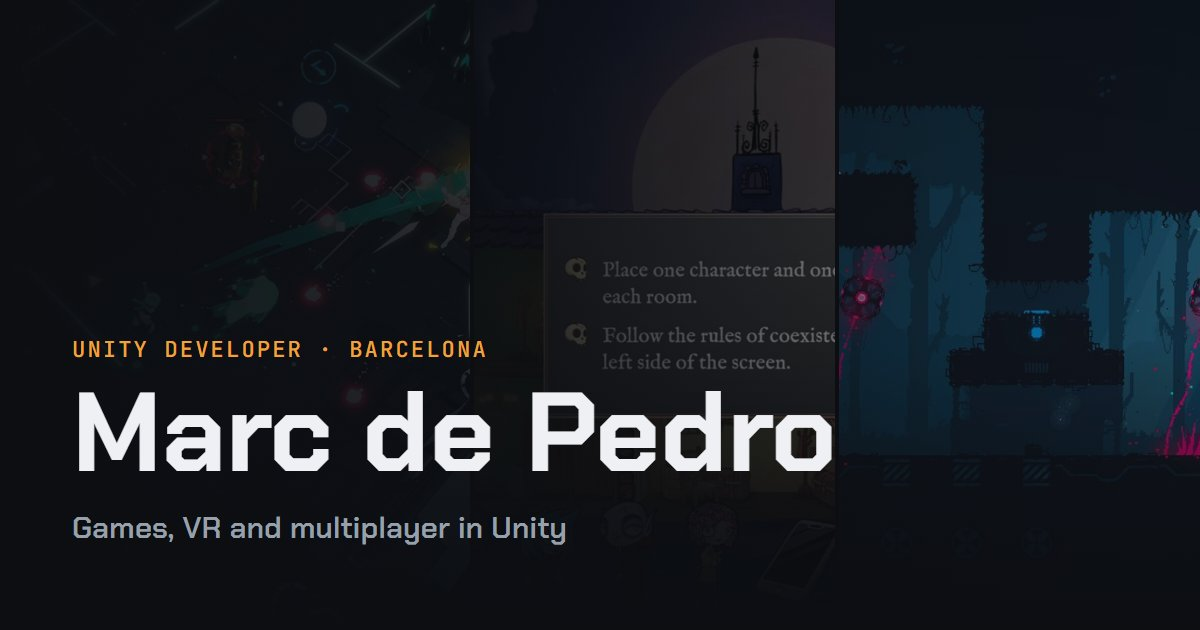
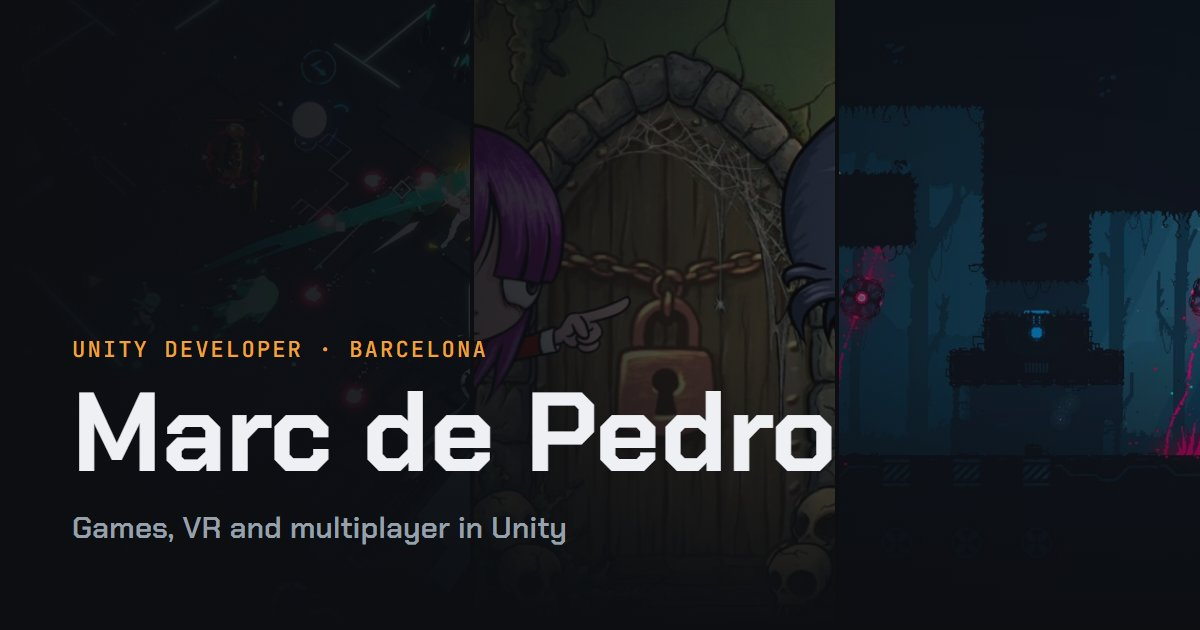
Side arrows for the games carousel, new Singular Ones shot in hero and preview

diff --git a/index.html b/index.html
@@ -54,6 +54,7 @@ section, footer { scroll-margin-top: 64px; }
 .hero { position: relative; overflow: hidden; border-bottom: 1px solid var(--line); }
 .mosaic { position: absolute; inset: 0; display: grid; grid-template-columns: 1.3fr 1fr 1fr; gap: 4px; }
 .mosaic img { width: 100%; height: 100%; object-fit: cover; }
+.mosaic img.no-dialog { height: 120%; object-position: 50% 0; } /* push the game's dialogue box below the hero edge */
 .hero::after { content: ""; position: absolute; inset: 0; background: linear-gradient(90deg, var(--bg) 0%, color-mix(in srgb, var(--bg) 82%, transparent) 45%, color-mix(in srgb, var(--bg) 35%, transparent) 100%), linear-gradient(0deg, var(--bg) 0%, transparent 40%); }
 .hero .wrap { position: relative; z-index: 1; }
 .hero-in { padding-block: 96px 72px; display: grid; gap: 22px; max-width: 640px; }
@@ -76,11 +77,21 @@ h1 { margin: 0; font: 700 clamp(3rem, 9vw, 5.6rem)/.9 var(--display); letter-spa
 .game-tabs button { padding: 8px 12px; border-radius: 5px; border: 1px solid var(--line); background: none; color: var(--muted); font: 500 .85rem/1 var(--body); cursor: pointer; }
 .game-tabs button:hover { color: var(--ink); }
 .game-tabs button[aria-current="true"] { color: var(--on-accent); background: var(--accent); border-color: var(--accent); }
-.arrows { display: flex; align-items: center; gap: 8px; }
-.count { font: 500 .8rem/1 var(--mono); color: var(--muted); font-variant-numeric: tabular-nums; margin-right: 6px; }
-.arrow { width: 40px; height: 40px; display: grid; place-items: center; border-radius: 6px; border: 1px solid var(--line); background: var(--surface); color: var(--ink); font-size: 1.1rem; cursor: pointer; }
+.arrows { display: flex; align-items: center; min-height: 40px; padding-right: 100px; }
+.count { font: 500 .8rem/1 var(--mono); color: var(--muted); font-variant-numeric: tabular-nums; }
+/* arrows: beside the game's screenshot when there is room in the side gutters, otherwise next to the counter */
+.carousel-wrap { position: relative; }
+.arrow { position: absolute; z-index: 2; top: -68px; right: 0; width: 40px; height: 40px; display: grid; place-items: center; border-radius: 6px; border: 1px solid var(--line); background: var(--surface); color: var(--ink); font-size: 1.1rem; cursor: pointer; }
 .arrow:hover:not(:disabled) { border-color: var(--accent); }
 .arrow:disabled { opacity: .35; cursor: default; }
+.arrow.prev { right: 52px; }
+@media (min-width: 1320px) {
+  .arrows { padding-right: 0; }
+  /* margin-top % is relative to width: centre of the 16:9 screenshot in the 1.55fr column */
+  .arrow { top: 0; margin-top: calc((100% - 40px) * .17096 - 24px); width: 48px; height: 48px; border-radius: 50%; font-size: 1.25rem; }
+  .arrow.prev { right: auto; left: -76px; }
+  .arrow.next { right: -76px; }
+}
 .carousel { position: relative; display: flex; gap: 40px; overflow-x: auto; scroll-snap-type: x mandatory; overscroll-behavior-x: contain; scrollbar-width: none; }
 .carousel::-webkit-scrollbar { display: none; }
 .slide { flex: 0 0 100%; scroll-snap-align: start; }
@@ -202,7 +213,7 @@ footer p { margin: 0; color: var(--muted); }
   <div class="mosaic" aria-hidden="true">
     <img src="media/img/deflector-1.jpg" alt="">
     <img src="media/img/reseed-1.jpg" alt="">
-    <img src="media/img/singular-1.jpg" alt="">
+    <img class="no-dialog" src="media/img/singular-4.jpg" alt="">
   </div>
   <div class="wrap">
     <div class="hero-in">
@@ -232,11 +243,12 @@ footer p { margin: 0; color: var(--muted); }
         </div>
         <div class="arrows">
           <span class="count" aria-live="polite">01 / 03</span>
-          <button type="button" class="arrow prev" aria-label="Previous game">&larr;</button>
-          <button type="button" class="arrow next" aria-label="Next game">&rarr;</button>
         </div>
       </div>
 
+      <div class="carousel-wrap">
+        <button type="button" class="arrow prev" aria-label="Previous game">&larr;</button>
+        <button type="button" class="arrow next" aria-label="Next game">&rarr;</button>
       <div class="carousel">
         <article class="slide feature" id="deflector" aria-roledescription="slide" aria-label="1 of 3: Deflector">
           <div class="shots" data-trailer="https://video.akamai.steamstatic.com/store_trailers/1736550/551523/a86c25e3b011ff77da19d4791953a373c15e7436/1751025667/hls_264_master.m3u8?t=1679669634">
@@ -330,6 +342,7 @@ footer p { margin: 0; color: var(--muted); }
             <div class="links"><a class="btn" href="https://store.steampowered.com/app/3954440/RESEED/">Steam page ↗</a></div>
           </div>
         </article>
+      </div>
       </div>
     </div>
   </section>
